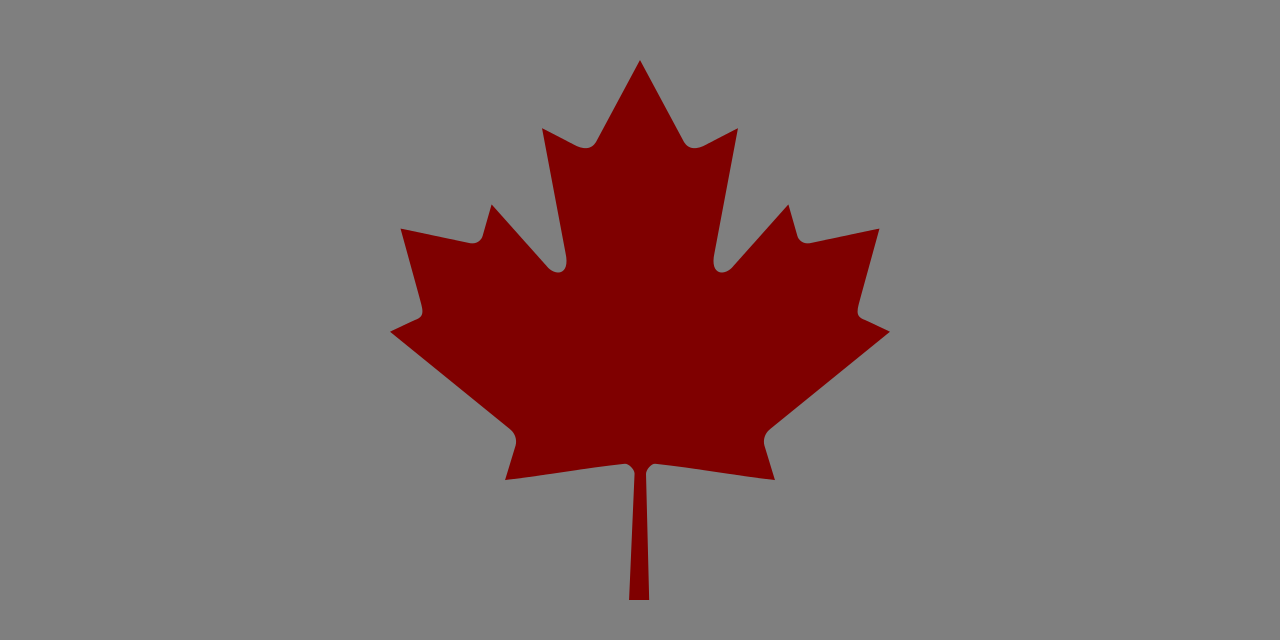
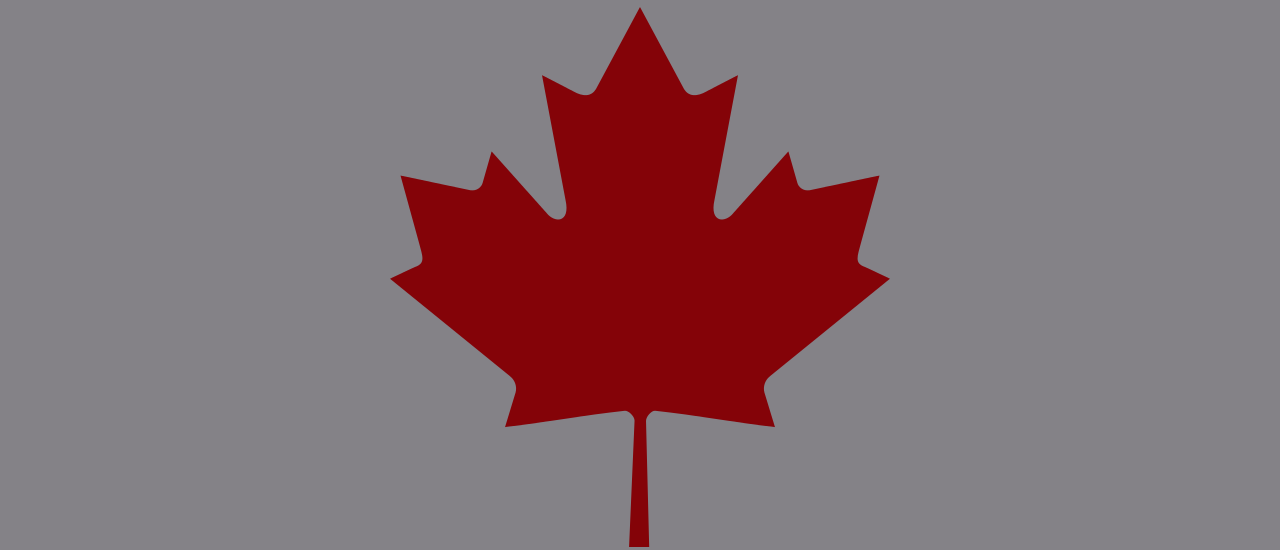
Changing around the splash layout.

diff --git a/index.html b/index.html
@@ -99,7 +99,7 @@
                 </h2>-->
                 
                 <p class="urgency-statement" id="urgency-statement">
-                    <strong id="registration-countdown"></strong> until the Election.
+                    There are <strong id="registration-countdown"></strong> left until the Election.
                 </p>
                 
                 <!--
@@ -177,14 +177,17 @@
             <div class="container">
                 
                 <div class="row">
-                    <div class="col-sm-7">
+                    <div class="col-sm-1">
                     
                     </div>
-                    <div class="col-sm-5"> 
-                        <h1>Don't Let the Fair Elections Act Catch Canada Off-Guard.</h1>
-                        <h3>This is an important election. We need to <strong>increase voter turnout, not decrease it.</strong></h3>
+                    <div class="col-sm-10"> 
+                        <h1 class="center">Don't Let the Fair Elections Act Catch Canada Off-Guard.</h1>
+                        <h3 class="center">This is an important election. We need to <strong>increase voter turnout, not decrease it.</strong></h3>
                         <h2 class="center">Do your part as a Canadian.</h2>
                         <h2 class="center"><strong>Get Involved.</strong></h2>
+                    </div>
+                                        <div class="col-sm-1">
+                    
                     </div>
                 </div>
                 
@@ -197,7 +200,6 @@
                     <div class="col-md-2"></div>
                     <div class="col-md-8">
                         <div class="share-cta-box">
-                            <h2 class="center">It's Time to Take Control of Canada's Destiny.</h2>
 
                             <button id='hideshow'>
                                 Show me the guide

diff --git a/css/styles.css b/css/styles.css
@@ -150,7 +150,6 @@ button {
   box-shadow: inset 0 -2px #cc0091;
   border-radius: 5px;
   margin: auto;
-  margin-bottom: 20px;
   display: block; }
   button.inline {
     display: inline;
@@ -198,14 +197,10 @@ FOOTER
     margin-right: 10px; }
 
 .share-cta-box {
-  background-color: #250C3D;
   padding: 20px 25px;
   width: 88%;
   margin: 0 auto; }
 
-@media (min-width: 768px) {
-  .share-cta-box {
-    background-color: #332F49; } }
 .thinkrad {
   display: inline;
   height: 50px;
@@ -313,7 +308,9 @@ UNORGANIZED
   text-align: center;
   color: white;
   font-size: 24px;
-  padding: 0px 10px; }
+  padding: 0 0;
+  margin-top: 30px;
+  padding-bottom: 20px; }
   .urgency-statement strong {
     font-size: 26px; }
 
@@ -404,7 +401,7 @@ SPLASH SCREEN
 .supporting-statement {
   text-align: center;
   font-size: 34px;
-  margin-bottom: 20px;
+  margin-bottom: 25px;
   color: white; }
 
 .videoWrapper {
@@ -480,19 +477,16 @@ SHARE
   background-size: cover;
   color: white; }
   .canada-area h1 {
+    margin-top: 35px;
     font-size: 30px; }
   .canada-area h2 {
     font-size: 24px; }
 
 @media (min-width: 768px) {
-  .canada-area {
-    background-image: url(../img/canada.png);
-    height: 350px;
-    color: black; }
-    .canada-area h1 {
-      font-size: 36px; }
-    .canada-area h2 {
-      font-size: 30px; } }
+  .canada-area h1 {
+    font-size: 36px; }
+  .canada-area h2 {
+    font-size: 30px; } }
 .share-area {
   background-color: #250C3D;
   color: white; }

diff --git a/scss/styles.scss b/scss/styles.scss
@@ -67,7 +67,9 @@ UNORGANIZED
     text-align: center;
     color: white;
     font-size: 24px;
-    padding: 0px 10px;
+    padding: 0 0;
+    margin-top: 30px;
+    padding-bottom: 20px;
     
     strong {
         font-size: 26px;
@@ -205,7 +207,7 @@ SPLASH SCREEN
 .supporting-statement {
     text-align: center;
     font-size: 34px;
-    margin-bottom: 20px;
+    margin-bottom: 25px;
     color: white;
 }
 
@@ -326,6 +328,7 @@ SHARE
     color: white;
     
     h1 {
+        margin-top: 35px;
         font-size: 30px;
         //text-align: center;
     }
@@ -338,9 +341,9 @@ SHARE
 
 @media (min-width: 768px) {
     .canada-area {
-        background-image: url(../img/canada.png);
-        height: 350px;
-        color: black;
+        //background-image: url(../img/canada.png);
+        //height: 350px;
+        //color: black;
         
         h1 {
             font-size: 36px;

diff --git a/scss/_base.scss b/scss/_base.scss
@@ -237,7 +237,6 @@ button {
     box-shadow: inset 0 -2px $color5-shadow;
     border-radius: 5px;
     margin: auto;
-    margin-bottom: 20px;
     display: block;
 
     &.inline {
@@ -310,7 +309,7 @@ FOOTER
 }
 
 .share-cta-box {
-    background-color: $splash-bg-color;
+    //background-color: $splash-bg-color;
     padding: 20px 25px;
     width: 88%;
     margin: 0 auto;
@@ -318,7 +317,7 @@ FOOTER
 
 @media (min-width: 768px) {
     .share-cta-box {
-        background-color: #332F49;
+        //background-color: #332F49;
     }
 }
 

diff --git a/css/guide.css b/css/guide.css
@@ -150,7 +150,6 @@ button {
   box-shadow: inset 0 -2px #cc0091;
   border-radius: 5px;
   margin: auto;
-  margin-bottom: 20px;
   display: block; }
   button.inline {
     display: inline;
@@ -198,14 +197,10 @@ FOOTER
     margin-right: 10px; }
 
 .share-cta-box {
-  background-color: #250C3D;
   padding: 20px 25px;
   width: 88%;
   margin: 0 auto; }
 
-@media (min-width: 768px) {
-  .share-cta-box {
-    background-color: #332F49; } }
 .thinkrad {
   display: inline;
   height: 50px;
